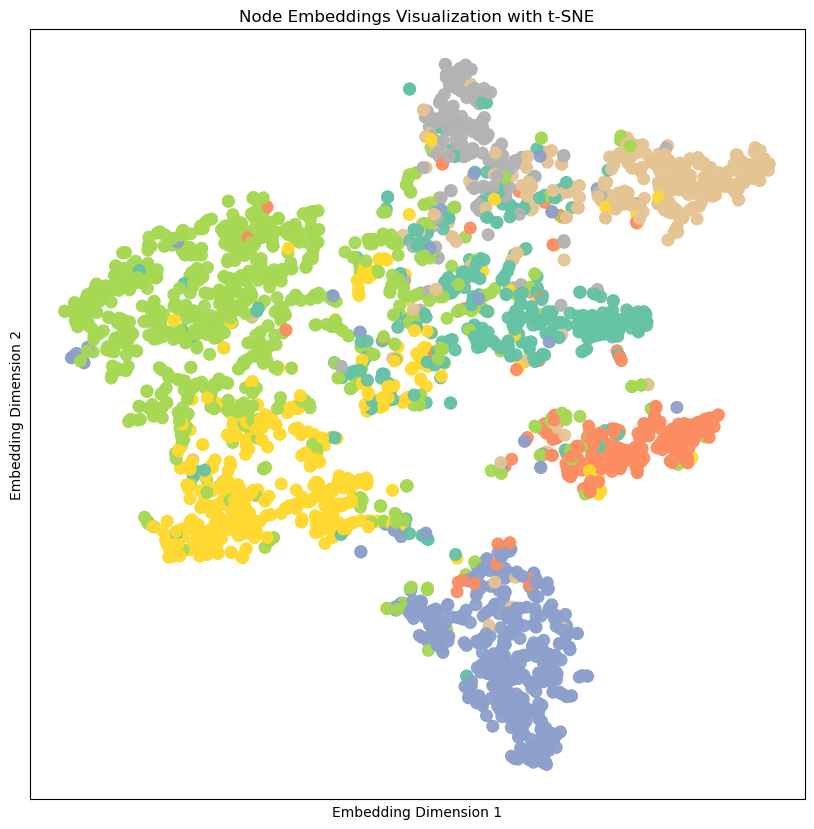
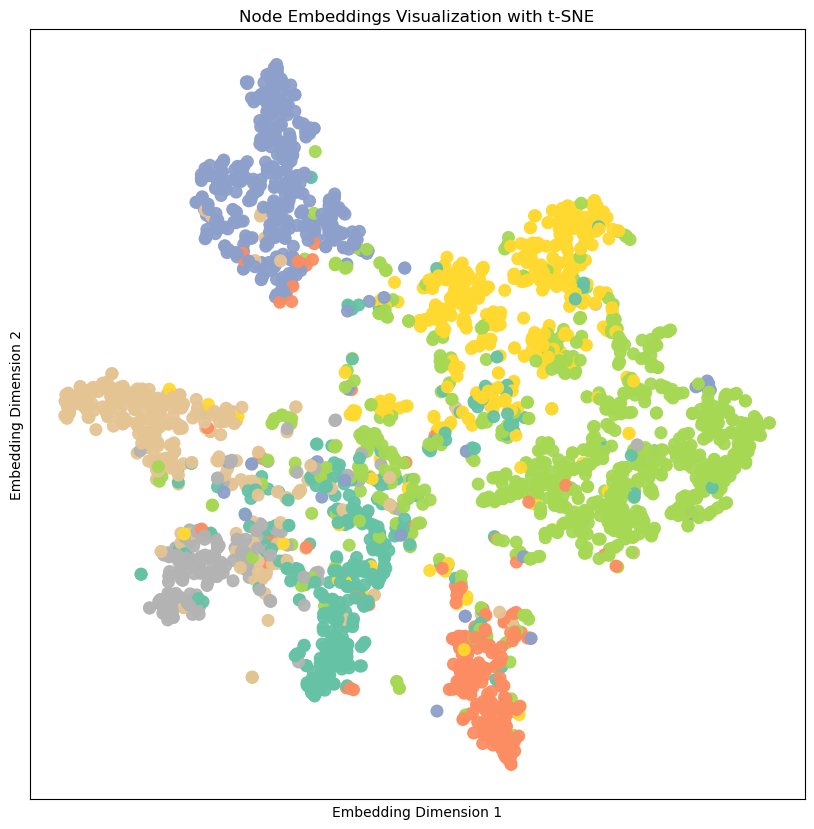
[GNN] Tut02 Add GAT for node classification
Add code to define, train and test a GAT model for node classification.
Update README with node embedding visualization for MLP, GCN as well as
GAT both before and after training the model

diff --git a/GNN/node_classification/main.py b/GNN/node_classification/main.py
@@ -11,12 +11,13 @@ import torch
 from matplotlib import pyplot as plt
 from sklearn.manifold import TSNE
 import networkx as nx
+from sympy.physics.vector import outer
 
 # PyG imports
 from torch_geometric.datasets import Planetoid
 from torch_geometric.transforms import NormalizeFeatures
 from torch_geometric.utils import to_networkx
-from torch_geometric.nn import GCNConv
+from torch_geometric.nn import GCNConv, GATConv
 
 # torch modeling imports
 import torch
@@ -190,6 +191,57 @@ class GCN(torch.nn.Module):
         x = self.conv2(x, edge_index)
         return x
 
+class GAT(torch.nn.Module):
+    """
+    A simple 2-layer Graph Attention Network (GAT) model for node classification.
+
+    The default is to use 8 attention heads in the first layer and 1 head in the second layer.
+    Hidden channels dimension is 8 per head by default.
+    """
+    def __init__(self, num_features, num_classes, hidden_channels_per_head: int = 8, n_heads: int = 8):
+        """
+        Constructor for the GAT model.
+
+        @param num_features: The number of input features per node (required).
+        @param num_classes: The number of output classes for classification (required).
+        @param hidden_channels_per_head: int; The number of hidden channels (neurons) in the GAT layer per attention head
+                                        (default is 8). (Optional).
+        @param n_heads: int; Number of attention heads (default is 8). (Optional).
+
+        @return: None
+        """
+        # Call the parent class constructor
+        super().__init__()
+
+        # set torch manual seed for reproducibility
+        torch.manual_seed(1234567)
+
+        # First graph attention layer
+        self.conv1 = GATConv(num_features, hidden_channels_per_head, heads=n_heads, dropout=0.6)
+
+        # Second graph attention layer
+        self.conv2 = GATConv(hidden_channels_per_head * n_heads, num_classes, heads=1, dropout=0.6)
+
+    def forward(self, x, edge_index):
+        """
+        Forward pass of the GAT model.
+
+        @param x: Node feature matrix of shape [num_nodes, num_features] (required).
+        @param edge_index: Graph connectivity in COO format with shape [2, num_edges] (required).
+
+        @return x: The output logits for each node of shape [num_nodes, num_classes].
+        """
+        # First graph attention layer with ELU activation and Dropout for regularization
+        # Dropout is applied before the first layer only
+        x = F.dropout(x, p=0.6, training=self.training)
+        x = self.conv1(x, edge_index)
+        x = F.elu(x)
+
+        # Second graph attention layer is applied after dropout
+        x = F.dropout(x, p=0.6, training=self.training)
+        x = self.conv2(x, edge_index)
+        return x
+
 def train(model, data, optimizer, criterion, device, mtype: ModelType = ModelType.MLP):
     """
     A function to train the model for one epoch.
@@ -214,7 +266,7 @@ def train(model, data, optimizer, criterion, device, mtype: ModelType = ModelTyp
     if mtype == ModelType.MLP:
         # for MLP, we only need node features
         out = model(data.x.to(device))
-    elif mtype == ModelType.GCN:
+    else:
         # for GCN, we need both node features and edge index
         out = model(data.x.to(device), data.edge_index.to(device))
 
@@ -247,7 +299,7 @@ def test(model, data, device, mtype: ModelType = ModelType.MLP):
     with torch.no_grad():
         if mtype == ModelType.MLP:
             out = model(data.x.to(device))
-        elif mtype == ModelType.GCN:
+        else:
             out = model(data.x.to(device), data.edge_index.to(device))
 
         # get the predicted class with the highest probability by taking the argmax of the output logits
@@ -280,6 +332,9 @@ def train_test(data, device, num_features, num_classes, mtype: ModelType = Model
         model = MLP(num_features=num_features, hidden_channels=16, num_classes=num_classes)
     elif mtype == ModelType.GCN:
         model = GCN(num_features=num_features, hidden_channels=16, num_classes=num_classes)
+    else:
+        assert (mtype == ModelType.GAT), f"Unsupported model type: {mtype}. Supported types are MLP, GCN, GAT."
+        model = GAT(num_features=num_features, num_classes=num_classes, hidden_channels_per_head=8, n_heads=8)
 
     model = model.to(device)
 
@@ -287,16 +342,18 @@ def train_test(data, device, num_features, num_classes, mtype: ModelType = Model
     print(f"{mtype.value} Model architecture:\n{model}")
     print(f"==========================================")
 
-    # visualize the node embeddings before training for GCN model
-    if mtype == ModelType.GCN:
-        print(f"============ Visualizing {mtype.value} Model Node Embeddings Before Training ===========")
-        model.eval()
-        with torch.no_grad():
+    # visualize the node embeddings before training for the model
+    print(f"============ Visualizing {mtype.value} Model Node Embeddings Before Training ===========")
+    model.eval()
+    with torch.no_grad():
+        if mtype != ModelType.MLP:
             out = model(data.x.to(device), data.edge_index.to(device))
-            visualize(out, color=data.y.cpu(), save_path=f"{mtype.value}_model_node_embeddings_before_training.png")
-            print(f"Saved plot of {mtype.value} model node embeddings before training to "
-                  f"{mtype.value}_model_node_embeddings_before_training.png")
-        print(f"==============================================")
+        else:
+            out = model(data.x.to(device))
+        visualize(out, color=data.y.cpu(), save_path=f"{mtype.value}_model_node_embeddings_before_training.png")
+        print(f"Saved plot of {mtype.value} model node embeddings before training to "
+              f"{mtype.value}_model_node_embeddings_before_training.png")
+    print(f"==============================================")
 
     # set the model to training mode
     model.train()
@@ -308,13 +365,16 @@ def train_test(data, device, num_features, num_classes, mtype: ModelType = Model
     print(f"=====================================")
 
     # Define the optimizer (Adaptive Moment Estimation (Adam) optimizer)
-    optimizer = torch.optim.Adam(model.parameters(), lr=0.01, weight_decay=5e-4)
+    if mtype != ModelType.GAT:
+        optimizer = torch.optim.Adam(model.parameters(), lr=0.01, weight_decay=5e-4)
+    else:
+        optimizer = torch.optim.Adam(model.parameters(), lr=0.005, weight_decay=5e-4)
     print(f"============ Optimizer ===========")
     print(f"Optimizer: {optimizer}")
     print(f"===================================")
 
     # Number of training epochs
-    num_epochs = 150
+    num_epochs = 200
     print(f"Number of training epochs: {num_epochs}")
 
     # print frequency, how often in epochs to print training progress
@@ -335,16 +395,18 @@ def train_test(data, device, num_features, num_classes, mtype: ModelType = Model
     test_acc = test(model, data, device, mtype)
     print(f"{mtype.value} Model Test Set Accuracy: {test_acc:.4f}")
 
-    # Visualize the node embeddings after training for GCN model
-    if mtype == ModelType.GCN:
-        print(f"============ Visualizing {mtype.value} Model Node Embeddings After Training ===========")
-        model.eval()
-        with torch.no_grad():
+    # Visualize the node embeddings after training for the model
+    print(f"============ Visualizing {mtype.value} Model Node Embeddings After Training ===========")
+    model.eval()
+    with torch.no_grad():
+        if mtype != ModelType.MLP:
             out = model(data.x.to(device), data.edge_index.to(device))
-            visualize(out, color=data.y.cpu(), save_path=f"{mtype.value}_model_node_embeddings_after_training.png")
-            print(f"Saved plot of {mtype.value} model node embeddings after training to "
-                  f"{mtype.value}_model_node_embeddings_after_training.png")
-        print(f"==============================================")
+        else:
+            out = model(data.x.to(device))
+        visualize(out, color=data.y.cpu(), save_path=f"{mtype.value}_model_node_embeddings_after_training.png")
+        print(f"Saved plot of {mtype.value} model node embeddings after training to "
+              f"{mtype.value}_model_node_embeddings_after_training.png")
+    print(f"==============================================")
 
 
 
@@ -439,6 +501,9 @@ def main():
 
     # call the train test loop for GCN model
     train_test(data, device, num_features=dataset.num_features, num_classes=dataset.num_classes, mtype=ModelType.GCN)
+
+    # call the train test loop for GAT model
+    train_test(data, device, num_features=dataset.num_features, num_classes=dataset.num_classes, mtype=ModelType.GAT)
 
 
 if __name__ == "__main__":

diff --git a/GNN/node_classification/README.md b/GNN/node_classification/README.md
@@ -81,6 +81,10 @@ MLP(
   (lin2): Linear(in_features=16, out_features=7, bias=True)
 )
 ==========================================
+============ Visualizing MLP Model Node Embeddings Before Training ===========
+Node embeddings visualization saved to MLP_model_node_embeddings_before_training.png
+Saved plot of MLP model node embeddings before training to MLP_model_node_embeddings_before_training.png
+==============================================
 ============ Loss Function ===========
 Loss function: CrossEntropyLoss()
 =====================================
@@ -99,10 +103,10 @@ Parameter Group 0
     weight_decay: 0.0005
 )
 ===================================
-Number of training epochs: 150
+Number of training epochs: 200
 Printing training progress every 25 epochs
 ======================= Training MLP Model =======================
-Training MLP Model for 150 epochs...
+Training MLP Model for 200 epochs...
 Epoch: 001; Training Loss: 1.9610
 Epoch: 025; Training Loss: 1.6550
 Epoch: 050; Training Loss: 1.1231
@@ -110,8 +114,14 @@ Epoch: 075; Training Loss: 0.7026
 Epoch: 100; Training Loss: 0.6053
 Epoch: 125; Training Loss: 0.6383
 Epoch: 150; Training Loss: 0.4885
+Epoch: 175; Training Loss: 0.4161
+Epoch: 200; Training Loss: 0.4758
 ======================= Testing MLP Model =======================
-MLP Model Test Set Accuracy: 0.5830
+MLP Model Test Set Accuracy: 0.5940
+============ Visualizing MLP Model Node Embeddings After Training ===========
+Node embeddings visualization saved to MLP_model_node_embeddings_after_training.png
+Saved plot of MLP model node embeddings after training to MLP_model_node_embeddings_after_training.png
+==============================================
 ============ GCN Model Summary ===========
 GCN Model architecture:
 GCN(
@@ -141,28 +151,97 @@ Parameter Group 0
     weight_decay: 0.0005
 )
 ===================================
-Number of training epochs: 150
+Number of training epochs: 200
 Printing training progress every 25 epochs
 ======================= Training GCN Model =======================
-Training GCN Model for 150 epochs...
+Training GCN Model for 200 epochs...
 Epoch: 001; Training Loss: 1.9465
 Epoch: 025; Training Loss: 1.6765
 Epoch: 050; Training Loss: 1.1994
-Epoch: 075; Training Loss: 0.7453
+Epoch: 075; Training Loss: 0.7454
 Epoch: 100; Training Loss: 0.5580
 Epoch: 125; Training Loss: 0.4847
 Epoch: 150; Training Loss: 0.4133
+Epoch: 175; Training Loss: 0.3673
+Epoch: 200; Training Loss: 0.3357
 ======================= Testing GCN Model =======================
-GCN Model Test Set Accuracy: 0.8180
+GCN Model Test Set Accuracy: 0.8110
 ============ Visualizing GCN Model Node Embeddings After Training ===========
 Node embeddings visualization saved to GCN_model_node_embeddings_after_training.png
 Saved plot of GCN model node embeddings after training to GCN_model_node_embeddings_after_training.png
+==============================================
+============ GAT Model Summary ===========
+GAT Model architecture:
+GAT(
+  (conv1): GATConv(1433, 8, heads=8)
+  (conv2): GATConv(64, 7, heads=1)
+)
+==========================================
+============ Visualizing GAT Model Node Embeddings Before Training ===========
+Node embeddings visualization saved to GAT_model_node_embeddings_before_training.png
+Saved plot of GAT model node embeddings before training to GAT_model_node_embeddings_before_training.png
+==============================================
+============ Loss Function ===========
+Loss function: CrossEntropyLoss()
+=====================================
+============ Optimizer ===========
+Optimizer: Adam (
+Parameter Group 0
+    amsgrad: False
+    betas: (0.9, 0.999)
+    capturable: False
+    differentiable: False
+    eps: 1e-08
+    foreach: None
+    fused: None
+    lr: 0.005
+    maximize: False
+    weight_decay: 0.0005
+)
+===================================
+Number of training epochs: 200
+Printing training progress every 25 epochs
+======================= Training GAT Model =======================
+Training GAT Model for 200 epochs...
+Epoch: 001; Training Loss: 1.9498
+Epoch: 025; Training Loss: 1.7442
+Epoch: 050; Training Loss: 1.4166
+Epoch: 075; Training Loss: 1.1243
+Epoch: 100; Training Loss: 0.9245
+Epoch: 125; Training Loss: 0.8471
+Epoch: 150; Training Loss: 0.7911
+Epoch: 175; Training Loss: 0.7067
+Epoch: 200; Training Loss: 0.7097
+======================= Testing GAT Model =======================
+GAT Model Test Set Accuracy: 0.8170
+============ Visualizing GAT Model Node Embeddings After Training ===========
+Node embeddings visualization saved to GAT_model_node_embeddings_after_training.png
+Saved plot of GAT model node embeddings after training to GAT_model_node_embeddings_after_training.png
 ==============================================
 ```
 
 A visualization of the graph is found in this image output:
 
 ![Planetoid Cora Graph](./planetoid_cora_graph.png "Planetoid Cora Graph")
+
+
+### MLP Model Node Embeddings Before Training
+
+Without training, the node embeddings, which are 7-dimensional compressed to 2D using t-SNE, are scattered randomly in
+the projected space.
+
+A visualization of the initial node embeddings before training is found in this image output.
+Note that the colors correspond to the true node classes, which are not known to the model before training.
+
+![MLP Model Node Embeddings Before Training](./MLP_model_node_embeddings_before_training.png "MLP Model Node Embeddings Before Training")
+
+### MLP Model Node Embeddings After Training
+
+After training, the output node embeddings of the trained MLP model produce some clustering of nodes of the same class
+in the projected space, but not as well as the GCN or GAT models.
+A visualization of the final node embeddings after training is found in this image output.
+
+![MLP Model Node Embeddings After Training](./MLP_model_node_embeddings_after_training.png "MLP Model Node Embeddings After Training")
 
 ### GCN Model Node Embeddings Before Training
 
@@ -182,3 +261,22 @@ class in the projected space, indicating that the model has learned to separate 
 A visualization of the final node embeddings after training is found in this image output.
 
 ![GCN Model Node Embeddings After Training](./GCN_model_node_embeddings_after_training.png "GCN Model Node Embeddings After Training")
+
+### GAT Model Node Embeddings Before Training
+
+Without training, the node embeddings, which are 7-dimensional compressed to 2D using t-SNE, are scattered randomly in
+the projected space.
+
+A visualization of the initial node embeddings before training is found in this image output.
+Note that the colors correspond to the true node classes, which are not known to the model before training.
+
+![GAT Model Node Embeddings Before Training](./GAT_model_node_embeddings_before_training.png "GAT Model Node Embeddings Before Training")
+
+### GAT Model Node Embeddings After Training
+
+After training, the output node embeddings of the trained GAT model produce far superior clustering of nodes of the same
+class in the projected space, indicating that the model has learned to separate nodes based on their classes.
+
+A visualization of the final node embeddings after training is found in this image output.
+
+![GAT Model Node Embeddings After Training](./GAT_model_node_embeddings_after_training.png "GAT Model Node Embeddings After Training")
